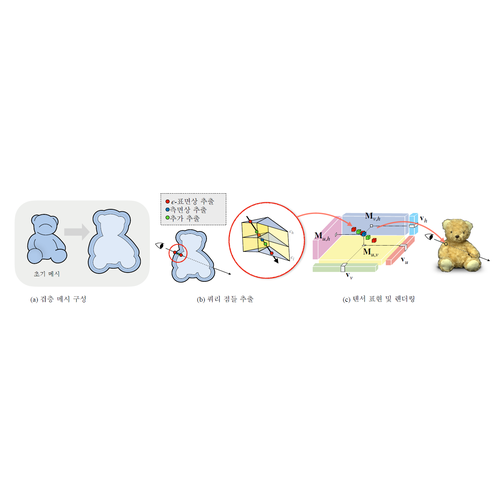
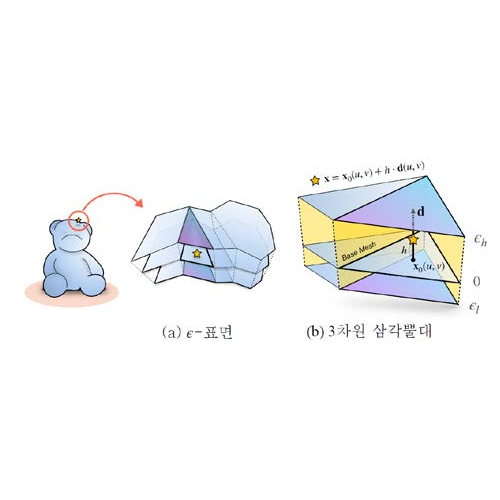
Add domestic paper thumbnails; remove CV and domestic PDFs
- Real thumbnails for GC-NeRF, uvh-TensoRF (epsilon-surface), Texture Reconstruction
- Remove CV link and file
- Remove domestic PDF links and files

Changed region(s): [[0.03, 0.33, 0.99, 0.69], [0.33, 0.63, 0.48, 0.69], [0.21, 0.36, 0.24, 0.39]]

diff --git a/index.html b/index.html
@@ -30,7 +30,6 @@
         <a href="https://scholar.google.com/citations?user=uEKnzT4AAAAJ&hl=en" target="_blank" rel="noopener" title="Google Scholar"><i class="fas fa-graduation-cap"></i>Scholar</a>
         <a href="https://github.com/kimsj0302" target="_blank" rel="noopener" title="GitHub"><i class="fab fa-github"></i>GitHub</a>
         <a href="https://www.linkedin.com/in/soongjin-kim-272a23162" target="_blank" rel="noopener" title="LinkedIn"><i class="fab fa-linkedin"></i>LinkedIn</a>
-        <a href="assets/SoongjinKim_CV.pdf" target="_blank" rel="noopener" title="Curriculum Vitae"><i class="fas fa-file-lines"></i>CV</a>
       </div>
 
       <nav>